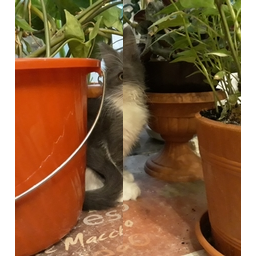
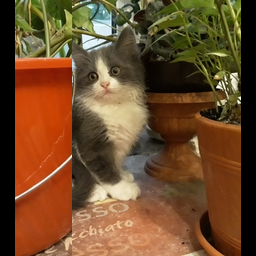
fix background color

Changed region(s): [[0.2812, 0.0, 0.5, 1.0], [0.9375, 0.0, 1.0, 1.0], [0.0, 0.0, 0.0625, 1.0]]

diff --git a/README.md b/README.md
@@ -62,9 +62,9 @@ img_1_2 <- c(
 
 img_3_4 <- c(
     image_annotate(img_3, "Crop & rotate", gravity = "south", 
-                   size = 32, color = "black"),
+                   size = 32, color = "white"),
     image_annotate(img_4, "Rotate & crop", gravity = "south", 
-                   size = 32, color = "black")
+                   size = 32, color = "white")
 )
 
 image_append(c(image_append(img_1_2), image_append(img_3_4)), 
